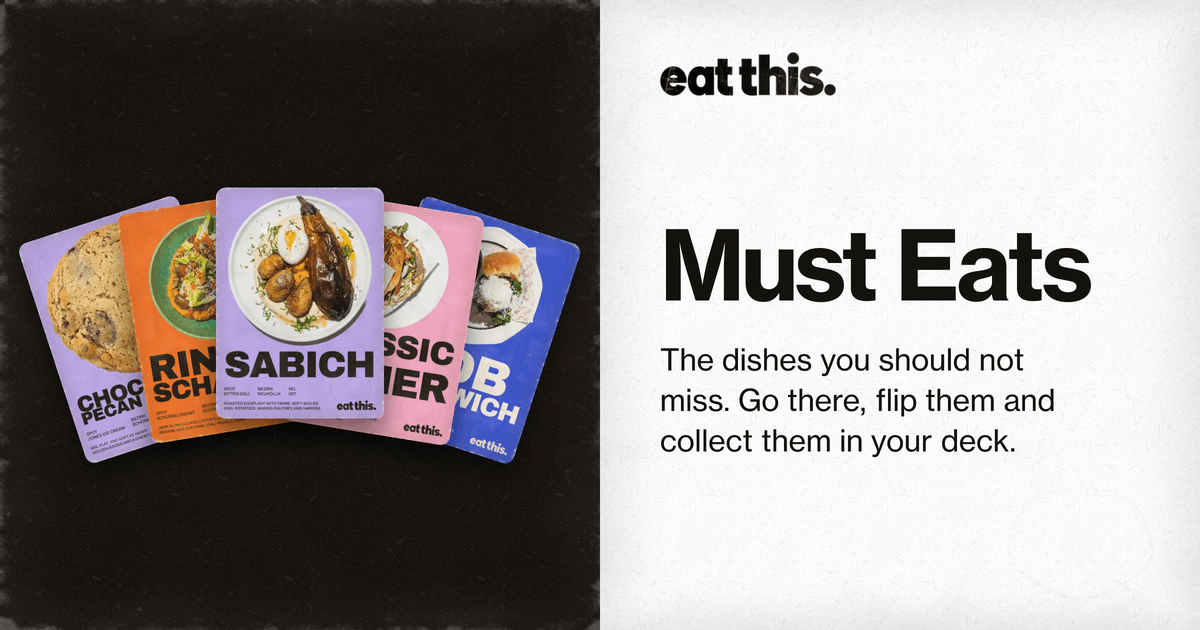
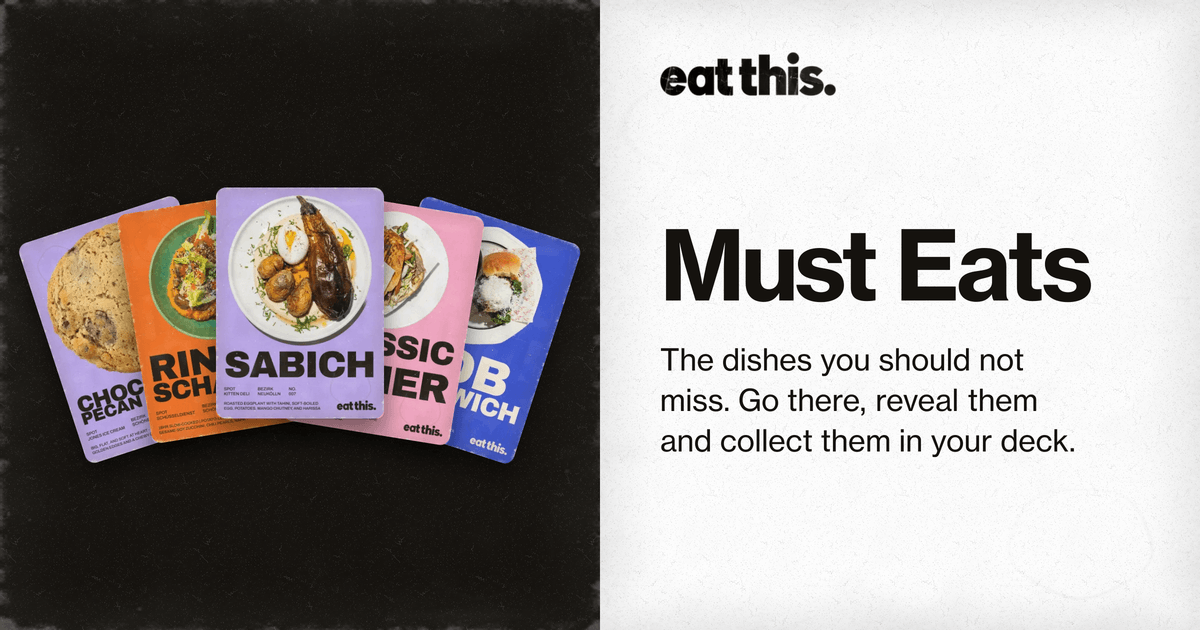
Describe shared decks without a stale spot count, use reveal in English
The link preview of a shared deck no longer claims "over a hundred spots"
and says "Must Eats aufgedeckt" like the page itself. The English deck page
says revealed instead of flipped and its guest button reads Sign in. The
English deck preview image is rebuilt for the new collect text.

Changed region(s): [[0.555, 0.6032, 0.8942, 0.7238]]

diff --git a/nextjs/lib/i18n/translations.ts b/nextjs/lib/i18n/translations.ts
@@ -174,20 +174,20 @@ const en = {
     /* Der Satz, der in WhatsApp unter der Vorschaukarte steht. Er muss die
        Frage „warum schickt der mir das" beantworten, bevor jemand klickt. */
     metaDescription:
-      '{done} of {total} cards flipped. Over a hundred spots in Berlin, and because discovering beats searching, every Must Eat is a card.',
+      '{done} of {total} Must Eats revealed. Hand-picked spots across Berlin on one map, the best dishes as cards to collect.',
     metaDescriptionNamed:
-      '{name} has flipped {done} of {total} cards. Over a hundred spots in Berlin, and because discovering beats searching, every Must Eat is a card.',
+      '{name} has revealed {done} of {total} Must Eats. Hand-picked spots across Berlin on one map, the best dishes as cards to collect.',
     /* Der Stand als Herausforderung. */
     challenge:
       '{done, plural, =0 {{name} is just getting started.} one {{name} has 1 of {total} Must Eats.} other {{name} has # of {total} Must Eats.}}',
     challengeFull: '{name} has all {total} Must Eats.',
     challengeAnon:
-      '{done, plural, =0 {This deck is just getting started.} other {# of {total} Must Eats flipped.}}',
+      '{done, plural, =0 {This deck is just getting started.} other {# of {total} Must Eats revealed.}}',
     /* Der sichtbare Stand, um die grosse Zahl herum gelesen ein Satz:
-       „Alex has flipped / 14 / of 100 Must Eats." */
-    scoreLead: '{name} has flipped',
+       „Alex has revealed / 14 / of 100 Must Eats." */
+    scoreLead: '{name} has revealed',
     scoreOf: 'of {total} Must Eats.',
-    scoreOfAnon: 'of {total} Must Eats flipped.',
+    scoreOfAnon: 'of {total} Must Eats revealed.',
     dare: 'Can you beat that?',
     dareFull: 'Can you match that?',
     dareStart: 'Who gets there first?',
@@ -195,9 +195,9 @@ const en = {
     mapBody: 'Hand-picked restaurants, cafés and bars across Berlin — and what to order there.',
     collectLabel: 'Must Eats',
     collectBody:
-      'The dishes you should not miss. Go there, flip them and collect them in your deck.',
+      'The dishes you should not miss. Go there, reveal them and collect them in your deck.',
     toMap: 'To the map',
-    signIn: 'Sign up',
+    signIn: 'Sign in',
   },
   profile: {
     avatarError: 'Your character could not be saved. Please try again.',
@@ -521,9 +521,9 @@ const deOverrides: DeepPartial<TranslationsShape> = {
     metaTitle: 'Ein Deck bei Eat This',
     metaTitleNamed: 'Das Deck von {name} bei Eat This',
     metaDescription:
-      '{done} von {total} Karten umgedreht. \u00dcber hundert Spots in Berlin, und weil Entdecken mehr Spa\u00df macht als Suchen, ist jedes Must Eat eine Karte.',
+      '{done} von {total} Must Eats aufgedeckt. Handverlesene Spots in ganz Berlin auf einer Map, die besten Gerichte als Karten zum Sammeln.',
     metaDescriptionNamed:
-      '{name} hat {done} von {total} Karten umgedreht. \u00dcber hundert Spots in Berlin, und weil Entdecken mehr Spa\u00df macht als Suchen, ist jedes Must Eat eine Karte.',
+      '{name} hat {done} von {total} Must Eats aufgedeckt. Handverlesene Spots in ganz Berlin auf einer Map, die besten Gerichte als Karten zum Sammeln.',
     /* Der Stand als Herausforderung. */
     challenge:
       '{done, plural, =0 {{name} f\u00e4ngt gerade an.} one {{name} hat 1 von {total} Must Eats.} other {{name} hat # von {total} Must Eats.}}',
